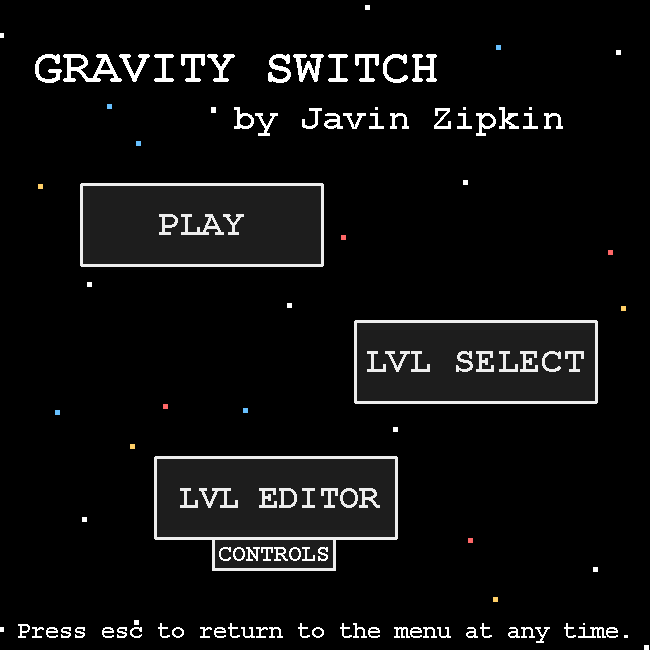
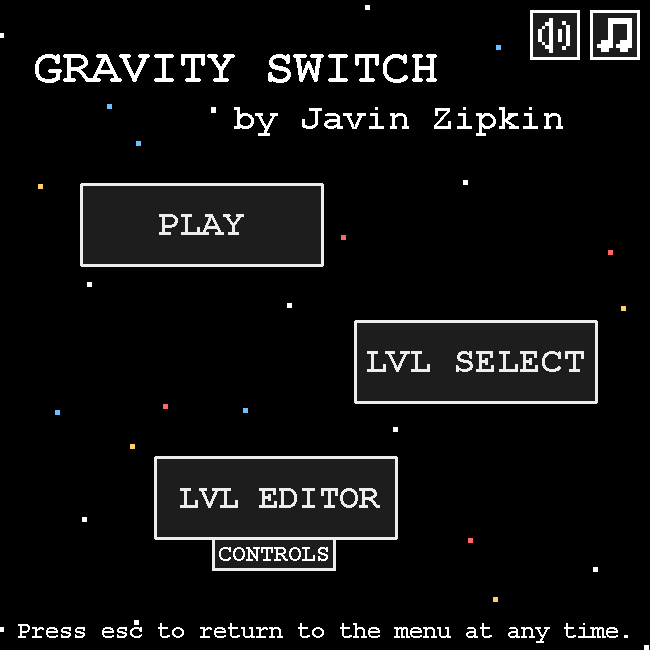
version 3.0

Changed region(s): [[0.8, 0.0, 0.9846, 0.0923]]

diff --git a/src/lib/gameStateInfo.py b/src/lib/gameStateInfo.py
@@ -7,6 +7,7 @@ from . import level
 from . import player
 from . import entity
 from . import specialEntities as special 
+from . import utility as u
 from .constants import *
 from .loadAssets import *
 import json
@@ -30,6 +31,8 @@ class GameStateInfo:
         self.mouseX: int = 0
         self.mouseY: int = 0
         self.timer = pygame.time.Clock()
+        # Global settings variables
+        self.showFPS = False
         # GUI variables
         self.saveSelector = None
         self.loadSelector = None
@@ -142,6 +145,14 @@ class GameStateInfo:
     
     def displayTitle(self):
         self.screen.blit(titleImage, (0,0))
+
+        # Slashes over sound toggle buttoms
+        if not u.doSound:
+            pygame.draw.line(self.screen, (255, 0, 0), (538, 18), (572, 52), 3)
+            pygame.draw.line(self.screen, (255, 0, 0), (538, 52), (572, 18), 3)
+        if not u.doMusic:
+            pygame.draw.line(self.screen, (255, 0, 0), (598, 18), (632, 52), 3)
+            pygame.draw.line(self.screen, (255, 0, 0), (598, 52), (632, 18), 3)
     
     def displayLevelSelect(self):
         # Main background
@@ -236,6 +247,10 @@ class GameStateInfo:
         # Clicking x button
         if event.type == pygame.QUIT:
             self.quit = True
+
+        # Global settings: FPS indicator
+        if event.type == pygame.KEYDOWN and event.key == pygame.K_f:
+            self.showFPS = not self.showFPS
             
         self.modeInputDict[self.mode](event)
     
@@ -299,6 +314,15 @@ class GameStateInfo:
                     self.levelNumber = 0
                 elif 212 <= self.mouseX <= 335 and 540 <= self.mouseY <= 570:
                     self.mode = "Editor Controls"
+                # Sound toggles
+                elif 530 <= self.mouseX <= 580 and 10 <= self.mouseY <= 60:
+                    u.doSound = not u.doSound
+                    if not u.doSound:
+                        u.stopSFX()
+                elif 590 <= self.mouseX <= 640 and 10 <= self.mouseY <= 60:
+                    u.doMusic = not u.doMusic
+                    if not u.doMusic:
+                        u.stopMusic()
     
     def processEditorControls(self, event: pygame.event.Event):
         if event.type == pygame.KEYDOWN:

diff --git a/src/lib/utility.py b/src/lib/utility.py
@@ -1,5 +1,10 @@
 import pygame
 import math
+
+# GLOBAL UTILITY VARIABLES FOR SOUND
+doSound = True
+doMusic = True
+
 # UTILITY FUNCTIONS
 def betterRect(screen, x1, y1, x2, y2, color = (0, 0, 0), width = 0):
     pygame.draw.polygon(screen, (color), ([(x1, y1), (x2, y1), (x2, y2), (x1, y2)]), width)
@@ -62,11 +67,27 @@ def dashedRect(screen, color, x1, y1, x2, y2, width):
     dashedLine(screen, color, (x1, y1), (x2, y1), 5, 5, width)
     dashedLine(screen, color, (x1, y2), (x2, y2), 5, 5, width)
 
-def playSound(channel : int, soundObj):
-    pygame.mixer.Channel(channel).play(soundObj)
 
 def stopSFX():
     pygame.mixer.Channel(1).stop()
     pygame.mixer.Channel(2).stop()
     pygame.mixer.Channel(3).stop()
     pygame.mixer.Channel(4).stop()
+
+def stopMusic():
+    pygame.mixer.Channel(5).stop()
+
+def silence():
+    stopSFX()
+    stopMusic()
+
+def playSound(channel : int, soundObj : pygame.Sound):
+    global doSound
+    if doSound:
+        print("Playing a sound")
+        pygame.mixer.Channel(channel).play(soundObj)
+
+def playMusic(musicObj : pygame.Sound):
+    global doMusic
+    if doMusic:
+        pygame.mixer.Channel(5).play(musicObj, -1)

diff --git a/src/gravityswitch.py b/src/gravityswitch.py
@@ -53,7 +53,8 @@ while not mainStatus.quit:
     # All game logic
     mainStatus.update()
     # Debug: Display FPS
-    u.screenText(10, 10, screen, "FPS: " + str(int(clock.get_fps())), 15)
+    if mainStatus.showFPS:
+        u.screenText(10, 10, screen, "FPS: " + str(int(clock.get_fps())), 15)
     # Draw special GUI elements (file selector)
     manager.update(mainStatus.tickTime)
     manager.draw_ui(screen)

diff --git a/src/lib/loadAssets.py b/src/lib/loadAssets.py
@@ -1,7 +1,6 @@
 import pygame
 import os
 import sys
-from . import utility as u
 
 pygame.mixer.pre_init(44100, -16, 2, 2048)
 pygame.init()

diff --git a/README.md b/README.md
@@ -1,49 +1,20 @@
 # Gravity Switch
-New and improved Gravity Switch game, all the way back from 2018! The main file is gravityswitch.py. Before running, make sure you have the latest version of Pygame. Run gravityswitch.py from either the root or src directory.
+New and improved Gravity Switch game, all the way back from 2018! 
+This GitHub repository is for the game's source code. If you want to play the game yourself and are not a developer, please use an appropriate download from the [Itch.io download page](https://jzipkin1812.itch.io/gravity-switch). This page is the ONLY real download link for Gravity Switch.
 
 # Controls
 Use the mouse to navigate menus. Use ESC to return to the main menu. Use the arrows to play. Use the r key to restart the current level at any time.
 
-# Level Editor Guide
-The Level Editor allows you to create your own stage or modify any of the stages from the main game. You can easily convert your creation to actual source code (whoah!) to share with friends.
-## Swapping to Editor Mode
-While playing any level in the game, click (not scroll, click) the mouse wheel to enter the editor mode. You will see a grid layed out across the screen to help you. Also note that modifying any level from the main game doesn't permanently affect it; if you close the game and reopen it, the original level will be present, so feel free to toy around with the main game levels as much as you want! Perhaps create a remixed version?
-The Level Editor button on the title screen simply takes you to a blank level. Nothing special about it.
-If you open the editor while in a main stage level, you will no longer advance to the next stage upon completing it.
-## Navigating the editor
-Use the left mouse button to select the location of the editor pointer. This looks like a small red circle. It points to the top left of whichever grid space you click. Once you have chosen a location for the editor pointer, you will use the keyboard to place objects there. You will also need to use the right mouse button similarly to select the location of the secondary mouse pointer. This is, in contrast, a small white circle, at the bottom right corner of whichever grid space you click. 
-## Placing platforms
-Press the space key to create a rectangular platform, defined by the two editor pointers. The primary (red) editor pointer is the top left corner of your platform and the secondary (white) editor pointer is the bottom right corner of your platform. Similarly,
-* To create clouds (from Space Station), press: f 
-* To create antiplatforms (from Volcanic Delta), press: a
-* Blue Beat Block (from Brownian Motion Beach): , 
-* Pink Beat Block (from Brownian Motion Beach): .
-* Stone (from Disassociated Dreamscape): s
+# Level Editor
+The Level Editor allows you to create your own stage or modify any of the stages from the main game. You can easily convert your creation to actual source code (whoah!) to share with friends. On the title screen, click the "Controls" button to see how to use the editor. This README is not required to learn how to use the editor.
+## Progress in Editor Mode
+If you swap to Editor Mode in any main game level or play the empty level reserved as "Level Editor", you cannot progress. Specifically, when you complete the stage (if it is beatable e.g. it has at least one player and at least one coin) you'll here a special jingle that only plays upon completing a custom level. This means that if you edit a main level you can't progress past it until you switch to a different level or restart the game. This is intended.
 ## Erasing and Undoing
-Press the backspace button and any object touching the primary pointer will be deleted. Be careful; multiple objects can be deleted at once if they all touch the primary pointer. To conveniently delete the most recently created object, press z.
-## Small Objects
-Non-platform objects take up only one 25x25 pixel square each, so they only depend on the primary (red) editor pointer. Here are all such objects:
-* Player: p
-* Goal square / Coin: c
-* Null cube (from Space Station): n
-* Reverse Player (from Dark Matter Mountains): v
-* Resizer (from Disassociated Dreamscape): d
-## Directed Objects
-Some objects face a direction. To set the direction of an object you are about to place, use an arrow key. Then,
-* Redirector (from Volcanic Delta): i 
-* Lever (from Non-Euclidean Rainforest): l
-* Tar (from Dark Matter Mountains): r
-* Quicksand (from Brownian Motion Beach): q
-## Teleporters
-Use the t key to create a set of two teleporters. The top-left corners of each part of the teleporter are determined by the two editor pointers. It is recommended to only have one set, since they all look the same, but multiple sets will function just fine.
-### Limited-Use Teleporters
-The number keys provide this functionality. Press 0 and then create a teleporter to make one with unlimited uses. Press 1, 2, 3, or 4 to make teleporters with those number of uses.
-## Testing your Level 
-Simply click the mouse wheel again to exit editor mode and start playing. You can freely switch between these two modes with the mouse wheel at any time. Ngl the seamless design of this feature ate...
+Press the backspace button and any object touching the primary pointer will be deleted. Be careful; multiple objects can be deleted at once if they all touch the primary pointer. To conveniently delete the most recently created non-player object, press z.
 ## Saving and Sharing your level
-While in editor mode, press CTRL+o to save your level to a file. Use the dialog that pops up on screen.
+While in editor mode, press CTRL+s to save your level to a file. Use the dialog that pops up on screen.
 To load a level from your computer, press CTRL+o, and again use the dialog that pops up on screen.
-Feel free to share your levels with your friends...or send them to me!
+Feel free to share your levels with your friends...or send them to me! You can send your level to javinzipkin@gmail.com and, if I like it, it might just be featured in a future "featured levels" official page!
 ### Advanced Editing
 You can directly edit your level file by opening it up in a text editor to make tweaks that the editor doesn't support. For example, the 'color' field of any object in the level, as well as the color value for the background and text color, may be changed freely. You may also change the x and y coordinates of objects to make adjustments finer than the grid size. 
 ## Adding text to your level
@@ -52,6 +23,8 @@ With your primary pointer on the top-left location of where you want your text, 
 # Changelog
 ## Version 3.0 (1/xx/2026):
 * The entire level editor UI has been overhauled! Any player should now be able to use it without any help from this README, and I think it's clean and intuitive. The level editor is now a complete feature and I look forward to playing levels made by all of you!
+* A new "Controls" page has been added to show how to use the editor. 
+* Toggle buttons have been added to turn the sound on and off. The music button does nothing because I haven't added the soundtrack yet, but it's almost done!
 ## Version 2.2 (1/xx/2026):
 * You can now save/load levels!
 * Editor pointer bug fixed (FINALLY!!!!)
